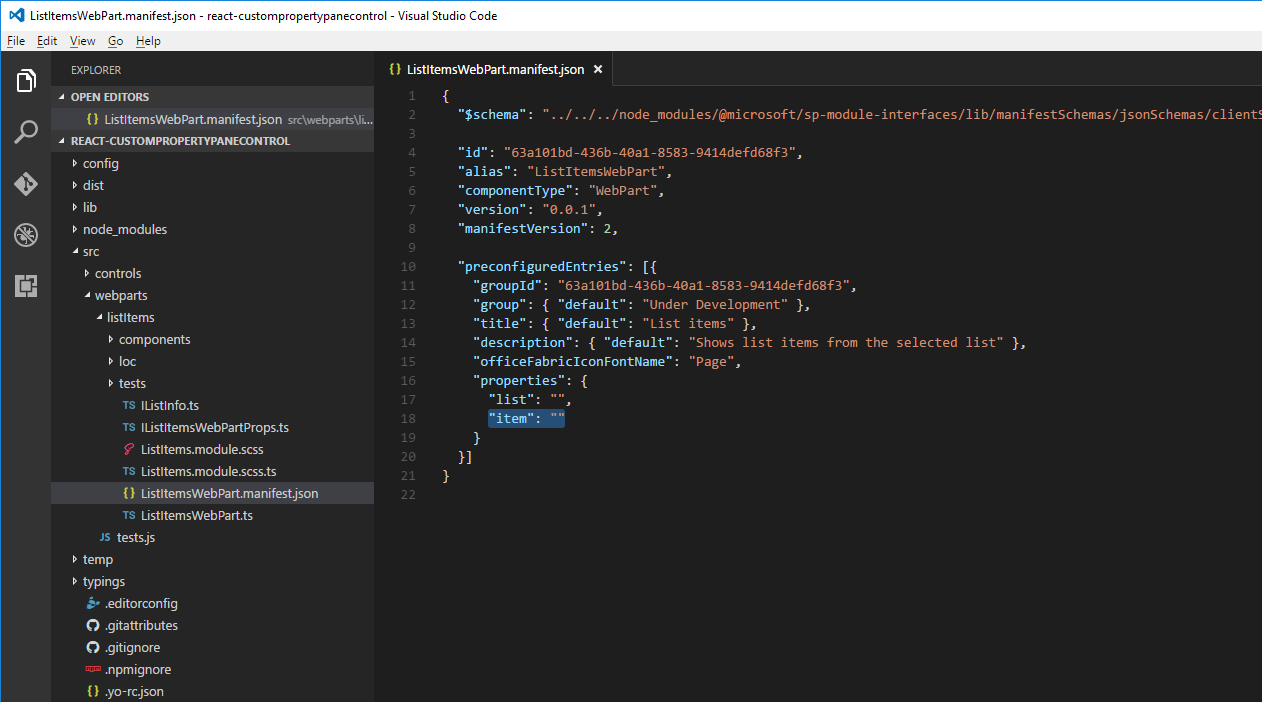
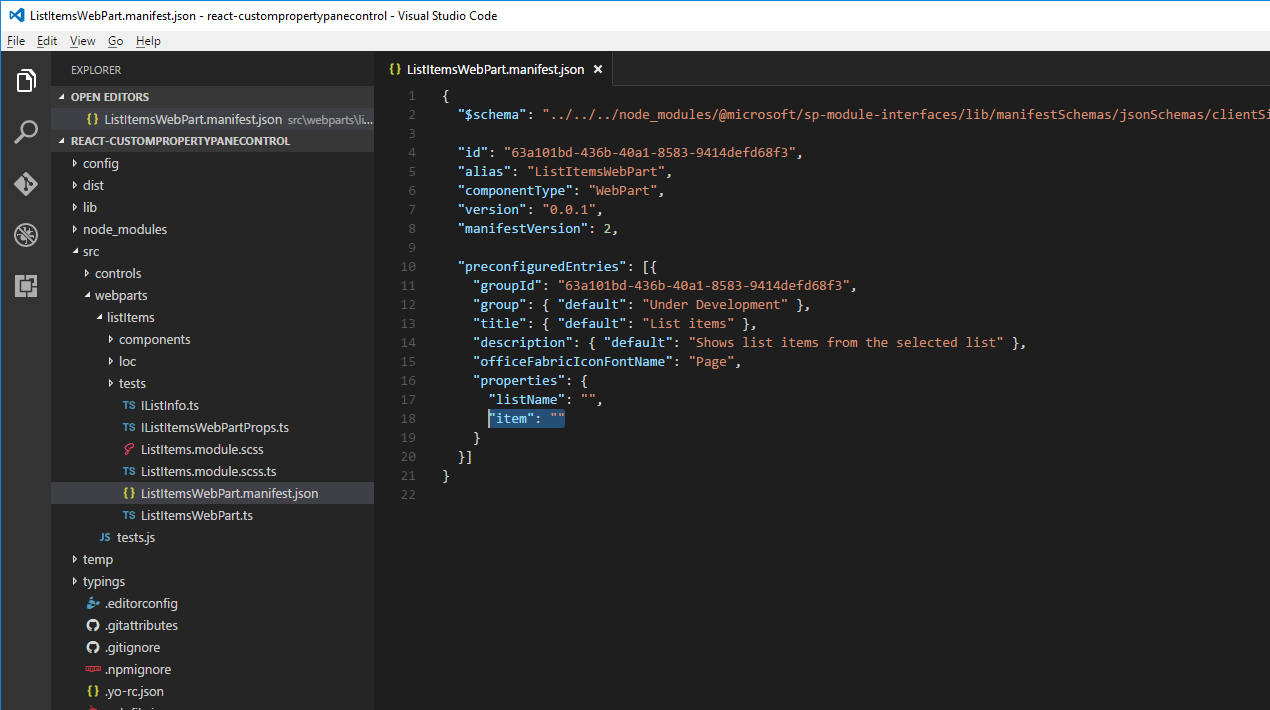
Added changes suggested by @manishgarg1

diff --git a/docs/spfx/web-parts/guidance/build-custom-property-pane-controls.md b/docs/spfx/web-parts/guidance/build-custom-property-pane-controls.md
@@ -48,17 +48,17 @@ Once the scaffolding completes, open your project folder in your code editor. Th
 
 ## Define web part property for storing the selected list
 
-The Web part you are building will show list items from the selected SharePoint list. Users will be able to select a list in the web part properties. To store the selected list create a new web part property named **list**.
+The Web part you are building will show list items from the selected SharePoint list. Users will be able to select a list in the web part properties. To store the selected list create a new web part property named **listName**.
 
-In the code editor open the **src/webparts/listItems/ListItemsWebPartManifest.json** file. Replace the default **description** property with a new property named `list`.
+In the code editor open the **src/webparts/listItems/ListItemsWebPartManifest.json** file. Replace the default **description** property with a new property named `listName`.
 
-![Web part manifest with the 'list' web part property highlighted](../../../../images/custom-property-pane-control-list-property-web-part-manifest.png)
+![Web part manifest with the 'listName' web part property highlighted](../../../../images/custom-property-pane-control-list-property-web-part-manifest.png)
 
 Next, open the **src/webparts/listItems/IListItemsWebPartProps.ts** file and replace its contents with:
 
 ```ts
 export interface IListItemsWebPartProps {
-  list: string;
+  listName: string;
 }
 ```
 
@@ -69,7 +69,7 @@ export default class ListItemsWebPart extends BaseClientSideWebPart<IListItemsWe
   // ...
   public render(): void {
     const element: React.ReactElement<IListItemsProps> = React.createElement(ListItems, {
-      list: this.properties.list
+      listName: this.properties.listName
     });
 
     ReactDom.render(element, this.domElement);
@@ -94,7 +94,7 @@ export default class ListItemsWebPart extends BaseClientSideWebPart<IListItemsWe
             {
               groupName: strings.BasicGroupName,
               groupFields: [
-                PropertyPaneTextField('list', {
+                PropertyPaneTextField('listName', {
                   label: strings.ListFieldLabel
                 })
               ]
@@ -147,7 +147,7 @@ export default class ListItems extends React.Component<IListItemsProps, {}> {
                 Customize SharePoint experiences using web parts.
               </p>
               <p className='ms-font-l ms-fontColor-white'>
-                {this.props.list}
+                {this.props.listName}
               </p>
               <a
                 className={css('ms-Button', styles.button)}
@@ -172,7 +172,7 @@ gulp serve
 
 In the web browser, add the **List items** web part to the canvas and open its properties. Verify that the value set for the **List** property is displayed in the web part body.
 
-![Web part showing the value of the 'list' property](../../../../images/custom-property-pane-control-web-part-first-run.png)
+![Web part showing the value of the 'listName' property](../../../../images/custom-property-pane-control-web-part-first-run.png)
 
 ## Create asynchronous dropdown property pane control
 
@@ -445,7 +445,7 @@ export interface IListInfo {
 }
 ```
 
-### Use the asynchronous dropdown property pane control to render the list web part property
+### Use the asynchronous dropdown property pane control to render the listName web part property
 
 #### Reference required types
 
@@ -509,7 +509,7 @@ After selecting a list in the list dropdown, the selected value should be persis
 
 #### Render the list web part property using the asynchronous dropdown property pane control 
 
-In the **ListItemsWebPart** class change the **propertyPaneSettings** getter to use the asynchronous dropdown property pane control to render the **list** web part property.
+In the **ListItemsWebPart** class change the **propertyPaneSettings** getter to use the asynchronous dropdown property pane control to render the **listName** web part property.
 
 ```ts
 export default class ListItemsWebPart extends BaseClientSideWebPart<IListItemsWebPartProps> {
@@ -525,11 +525,11 @@ export default class ListItemsWebPart extends BaseClientSideWebPart<IListItemsWe
             {
               groupName: strings.BasicGroupName,
               groupFields: [
-                new PropertyPaneAsyncDropdown('list', {
+                new PropertyPaneAsyncDropdown('listName', {
                   label: strings.ListFieldLabel,
                   loadOptions: this.loadLists.bind(this),
                   onPropertyChange: this.onListChange.bind(this),
-                  selectedKey: this.properties.list
+                  selectedKey: this.properties.listName
                 })
               ]
             }
@@ -563,9 +563,9 @@ In the code editor open the **src/webparts/listItems/ListItemsWebPart.manifest.j
 ```ts
 // ...
 "properties": {
-   "list: "",
+   "listName": "",
    "item": ""
-   }
+}
 // ...
 ```
 
@@ -575,7 +575,7 @@ Change the code in the **src/webparts/listItems/IListItemsWebPartProps.ts** file
 
 ```ts
 export interface IListItemsWebPartProps {
-  list: string;
+  listName: string;
   item: string;
 }
 ```
@@ -587,7 +587,7 @@ export default class ListItemsWebPart extends BaseClientSideWebPart<IListItemsWe
   // ...
   public render(): void {
     const element: React.ReactElement<IListItemsProps> = React.createElement(ListItems, {
-      list: this.properties.list,
+      listName: this.properties.listName,
       item: this.properties.item
     });
 
@@ -608,7 +608,7 @@ declare interface IListItemsStrings {
 }
 ```
 
-In the **src/webparts/listItems/loc/en-us.js** file add the missing definition for the **ListFieldLabel** string.
+In the **src/webparts/listItems/loc/en-us.js** file add the missing definition for the **ItemFieldLabel** string.
 
 ```js
 define([], function() {
@@ -640,7 +640,7 @@ export default class ListItems extends React.Component<IListItemsProps, {}> {
                 Customize SharePoint experiences using web parts.
               </p>
               <p className='ms-font-l ms-fontColor-white'>
-                {this.props.list}
+                {this.props.listName}
               </p>
               <p className='ms-font-l ms-fontColor-white'>
                 {this.props.item}
@@ -668,7 +668,7 @@ In the **src/webparts/listItems/ListItemsWebPart.ts** file, in the **ListItemsWe
 export default class ListItemsWebPart extends BaseClientSideWebPart<IListItemsWebPartProps> {
   // ...
   private loadItems(): Promise<IDropdownOption[]> {
-    if (!this.properties.list) {
+    if (!this.properties.listName) {
       // resolve to empty options since no list has been selected
       return Promise.resolve();
     }
@@ -699,7 +699,7 @@ export default class ListItemsWebPart extends BaseClientSideWebPart<IListItemsWe
             }
           ]
         };
-        resolve(items[wp.properties.list]);
+        resolve(items[wp.properties.listName]);
       }, 2000);
     });
   }
@@ -751,7 +751,7 @@ export default class ListItemsWebPart extends BaseClientSideWebPart<IListItemsWe
       onPropertyChange: this.onListItemChange.bind(this),
       selectedKey: this.properties.item,
       // should be disabled if no list has been selected
-      disabled: !this.properties.list
+      disabled: !this.properties.listName
     });
 
     return {
@@ -764,7 +764,7 @@ export default class ListItemsWebPart extends BaseClientSideWebPart<IListItemsWe
             {
               groupName: strings.BasicGroupName,
               groupFields: [
-                new PropertyPaneAsyncDropdown('list', {
+                new PropertyPaneAsyncDropdown('listName', {
                   label: strings.ListFieldLabel,
                   loadOptions: this.loadLists.bind(this),
                   onPropertyChange: this.onListChange.bind(this),
@@ -782,7 +782,7 @@ export default class ListItemsWebPart extends BaseClientSideWebPart<IListItemsWe
 }
 ```
 
-The dropdown for the item property is initialized similarly to the dropdown for the list property. The only difference is that because after selecting a list the items dropdown has to be refreshed, an instance of the control has to be assigned to the class variable.
+The dropdown for the item property is initialized similarly to the dropdown for the listName property. The only difference is that because after selecting a list the items dropdown has to be refreshed, an instance of the control has to be assigned to the class variable.
 
 ### Load items for the selected list
 
